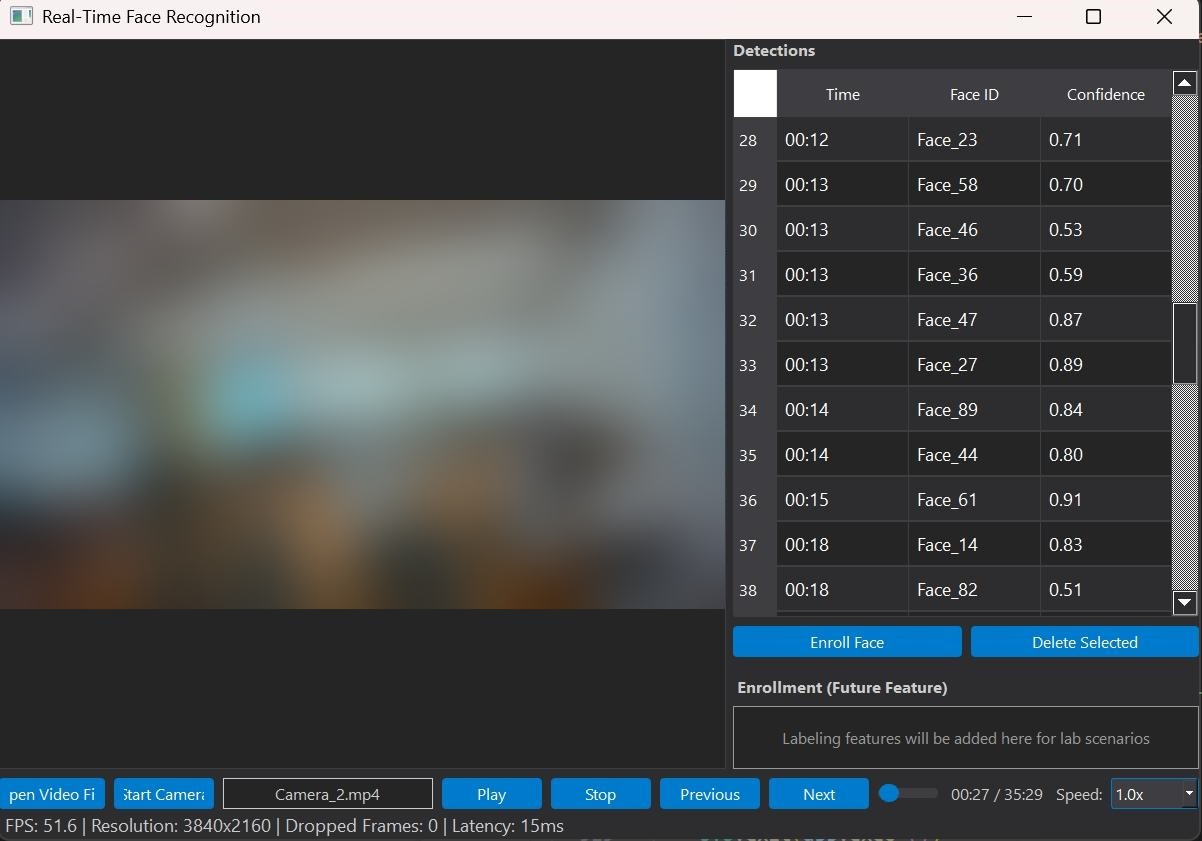
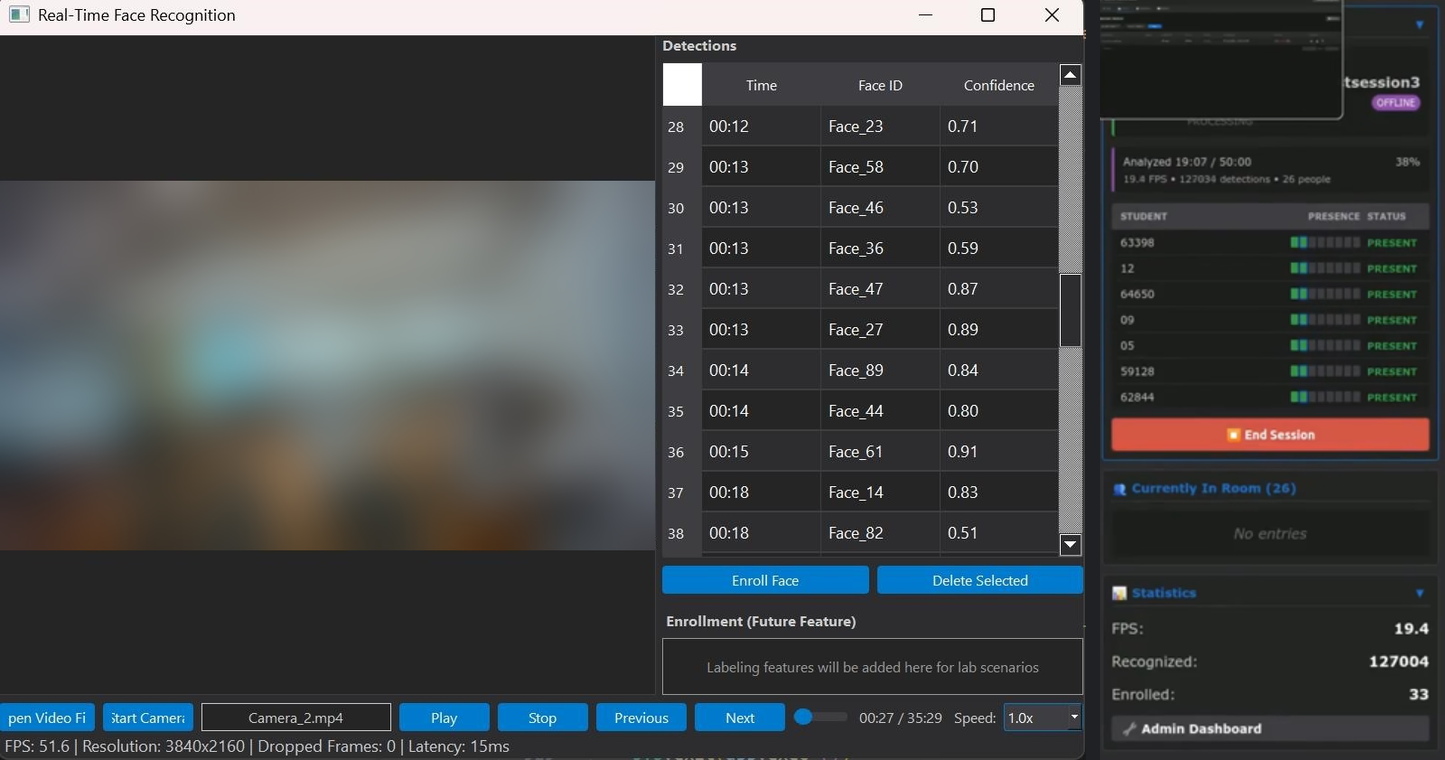
Add relevant images to project cards
- Classroom: composite of blurred desktop GUI and faceless attendance/statistics panel
- ThermoFM: schematic of planned pipeline (labelled as planned)
- Aerial Yield: use real smartphone and drone frames instead of model diagram

Claude-Session: https://claude.ai/code/session_01DkKn2h7bXWAtxpSUYjgkuM

Changed region(s): [[0.0, 0.0, 1.0, 1.0], [0.0, 0.0, 0.2155, 0.0303], [0.6772, 0.0, 0.708, 0.0303]]

diff --git a/index.html b/index.html
@@ -459,11 +459,11 @@ footer { padding-block: 24px 40px; font-size: 13.5px; color: var(--muted); displ
   <section class="section" id="projects">
     <div class="section-head"><h2>🛠 Projects</h2></div>
     <div class="projects">
-      <article class="project"><a class="project-media" href="images/blueberry-benchmark.png"><img src="images/blueberry-benchmark.png" alt="Unified blueberry model diagram" style="object-position: 0 50%" loading="lazy"></a><div class="project-body"><h3>Aerial Yield</h3><p>Drone-based fruit counting and ripeness detection for blueberry and tomato crops. I fly the drones for the aerial data, benchmark deep models on it, and built a dashboard for exploring predictions, crop analytics, and yield estimates. A benchmarking paper is in progress, alongside the tomato and blueberry dataset work.</p><div class="stack"><span class="tag tg-blue">PyTorch</span><span class="tag tg-green">YOLO</span><span class="tag tg-violet">FastAPI</span></div></div></article>
+      <article class="project"><a class="project-media" href="images/aerialyield-b2d.png"><img src="images/aerialyield-b2d.png" alt="Aerial Yield data: smartphone close-ups and DJI drone frames of greenhouse blueberries" style="object-position: 0 15%" loading="lazy"></a><div class="project-body"><h3>Aerial Yield</h3><p>Drone-based fruit counting and ripeness detection for blueberry and tomato crops. I fly the drones for the aerial data, benchmark deep models on it, and built a dashboard for exploring predictions, crop analytics, and yield estimates. A benchmarking paper is in progress, alongside the tomato and blueberry dataset work.</p><div class="stack"><span class="tag tg-blue">PyTorch</span><span class="tag tg-green">YOLO</span><span class="tag tg-violet">FastAPI</span></div></div></article>
       <article class="project"><a class="project-media" href="images/aircraft-defect.png"><img src="images/aircraft-defect.png" alt="YOLOv8 detection of a dent on an aircraft nose" style="object-position: 50% 45%" loading="lazy"></a><div class="project-body"><h3>Aircraft Defect Detection</h3><p>YOLOv8 pipeline for aircraft surface defects with preprocessing, augmentation, and evaluation. Undergraduate major project.</p><div class="stack"><span class="tag tg-green">YOLOv8</span><span class="tag tg-violet">FastAPI</span></div></div></article>
       <article class="project"><a class="project-media" href="images/jet-blade.png"><img src="images/jet-blade.png" alt="BladeDelta: blade mesh with the detected damage point, and a 3D check of the point against the known target" style="object-fit: contain; background: #fff" loading="lazy"></a><div class="project-body"><h3>BladeDelta: Jet Engine Blade Inspection</h3><p>A 3D damage pipeline for jet engine blades. It starts from a healthy CAD model and a few calibrated photos of a blade, reconstructs the damaged surface as a 3D mesh, and places each dent with an estimated depth. The core idea is the evidence test: a dent is reported only where the camera views support it, and otherwise the system returns "not supported." On a sealed test of 240 cases from 30 blades never used in development, the false alarm rate fell from 32% to 10%, the system abstained on 85% of hidden dents, and found dents were measured to a median depth error of 0.03&nbsp;mm. The synthetic benchmark has dev, calibration, and sealed test splits plus a transfer test on held-out blade CAD designs. Validation on 3D-printed damaged blades is planned.</p><div class="stack"><span class="tag tg-cyan">OpenCV</span><span class="tag tg-blue">PyTorch</span><span class="tag tg-amber">3D</span></div></div></article>
-      <article class="project"><a class="project-media" href="images/classroom-gui.png"><img src="images/classroom-gui.png" alt="Desktop interface of the classroom face-recognition prototype with a detections table and playback controls; the live video pane is blurred to protect students" style="object-fit: contain; background: #202124" loading="lazy"></a><div class="project-body"><h3>Classroom Face Recognition and Monitoring</h3><p>An industry- and application-focused prototype from Prof. Naoufel Werghi’s group at Khalifa University. It supports student recognition at varying camera distances, classroom monitoring, and automated attendance statistics. I studied the team’s approach and built the graphical interface shown here (video pane blurred to protect students). It was a team project.</p><div class="stack"><span class="tag tg-blue">PyQt</span><span class="tag tg-cyan">Computer Vision</span></div></div></article>
-      <article class="project"><div class="project-media tile th-rose">ThermoFM</div><div class="project-body"><h3>ThermoFM: Active Infrared Thermography for Aerospace Maintenance</h3><p>A KU RIG-2026 research project led by Dr. Yusra Abdulrahman on physics-guided generative thermal data and foundation models for understanding defects in aerospace components. Planned work includes retrieval-augmented vision-language models that link thermal evidence to maintenance documentation, and a language-guided maintenance assistant.</p><div class="stack"><span class="tag tg-rose">Thermography</span><span class="tag tg-blue">Foundation Models</span><span class="tag tg-amber">Planned</span></div></div></article>
+      <article class="project"><a class="project-media" href="images/classroom-gui.png"><img src="images/classroom-gui.png" alt="Classroom prototype: desktop interface with a detections table and playback controls (video pane blurred), and the attendance and statistics panel of the monitoring dashboard" style="object-fit: contain; background: #202124" loading="lazy"></a><div class="project-body"><h3>Classroom Face Recognition and Monitoring</h3><p>An industry- and application-focused prototype from Prof. Naoufel Werghi’s group at Khalifa University. It supports student recognition at varying camera distances, classroom monitoring, and automated attendance statistics. I studied the team’s approach and built the graphical interface (left; video pane blurred to protect students). The attendance and statistics panel is on the right. It was a team project.</p><div class="stack"><span class="tag tg-blue">PyQt</span><span class="tag tg-cyan">Computer Vision</span></div></div></article>
+      <article class="project"><a class="project-media" href="images/thermofm.svg"><img src="images/thermofm.svg" alt="Schematic of the planned ThermoFM pipeline from infrared thermography to a language-guided maintenance assistant" loading="lazy"></a><div class="project-body"><h3>ThermoFM: Active Infrared Thermography for Aerospace Maintenance</h3><p>A KU RIG-2026 research project led by Dr. Yusra Abdulrahman on physics-guided generative thermal data and foundation models for understanding defects in aerospace components. Planned work includes retrieval-augmented vision-language models that link thermal evidence to maintenance documentation, and a language-guided maintenance assistant.</p><div class="stack"><span class="tag tg-rose">Thermography</span><span class="tag tg-blue">Foundation Models</span><span class="tag tg-amber">Planned</span></div></div></article>
       <article class="project"><a class="project-media" href="images/greenvlm.jpg"><img src="images/greenvlm-thumb.jpg" alt="GreenVLM pipeline diagram" style="object-fit: contain; background: #fff" loading="lazy"></a><div class="project-body"><h3>GreenVLM</h3><p>CLIP-based tomato ripeness classification with limited labels, using domain adaptation across greenhouses.</p><div class="stack"><span class="tag tg-blue">CLIP</span><span class="tag tg-amber">Hugging Face</span></div></div></article>
       <article class="project"><div class="project-media"><img src="images/cervixguard.jpg" alt="Illustrative H&amp;E-stained cervical tissue section" title="Illustrative image: carcinoma in situ of the cervix, H&amp;E (public domain, Wikimedia Commons)" loading="lazy"></div><div class="project-body"><h3>CervixGuard</h3><p>An evidence-based review layer for cervical biopsy AI: each warning links to the exact tissue the model used, so uncertain or conflicting grades go to a human reviewer. More training slides lifted the grading baseline from 60.2% to 77.5% macro recall; the review guard is still being tested against confidence-based review.</p><div class="stack"><span class="tag tg-rose">Medical Imaging</span><span class="tag tg-violet">Explainability</span><span class="tag tg-cyan">Pathology</span></div></div></article>
       <article class="project"><div class="project-media tile th-berry">Course Syllabus Assistant</div><div class="project-body"><h3>Course Syllabus Assistant</h3><p>Chatbot that answers course questions and navigates the syllabus through a Gradio interface.</p><div class="stack"><span class="tag tg-green">ChatGPT</span><span class="tag tg-amber">Gradio</span></div></div></article>
